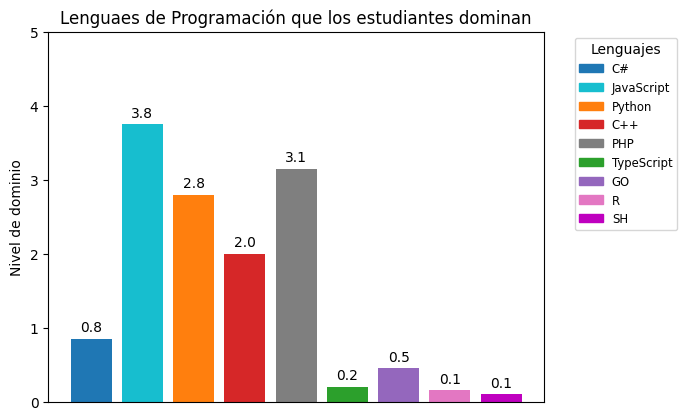
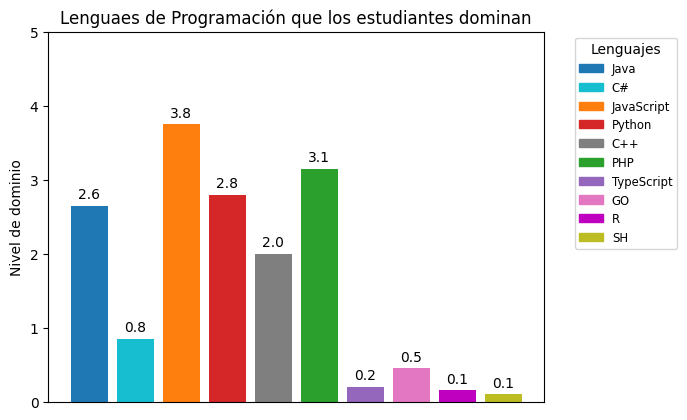
java

Changed region(s): [[0.0917, 0.2476, 0.7642, 0.9595], [0.8253, 0.1548, 0.9782, 0.5881]]

diff --git a/make_bar.py b/make_bar.py
@@ -15,7 +15,7 @@ def make_bar(data, por, title, name, file_name, drop_df=False, range=False, ylab
         df = df.drop(labels=0, axis=0)
 
     fig, ax = plt.subplots()
-    pps = ax.bar('Label', 'Value', data=df, color=['tab:blue', 'tab:cyan', 'tab:orange', 'tab:red', 'tab:gray', 'tab:green', 'tab:purple', 'tab:pink', 'm', 'tab:olive','tab:brown', 'mediumseagreen','k'])
+    pps = ax.bar('Label', 'Value', data=df, color=['tab:blue', 'tab:cyan', 'tab:orange', 'tab:red', 'tab:gray', 'tab:green', 'tab:purple', 'tab:pink', 'm', 'tab:olive','tab:brown', 'mediumseagreen','k','#c6fc03'])
 
     if ylabel is not None:
         plt.ylabel(ylabel)
@@ -35,7 +35,7 @@ def make_bar(data, por, title, name, file_name, drop_df=False, range=False, ylab
     fontP = FontProperties()
     fontP.set_size('small')
 
-    cmap = dict(zip(df['Label'].tolist(), ['tab:blue', 'tab:cyan', 'tab:orange', 'tab:red', 'tab:gray', 'tab:green', 'tab:purple', 'tab:pink', 'm', 'tab:olive','tab:brown', 'mediumseagreen','k']))
+    cmap = dict(zip(df['Label'].tolist(), ['tab:blue', 'tab:cyan', 'tab:orange', 'tab:red', 'tab:gray', 'tab:green', 'tab:purple', 'tab:pink', 'm', 'tab:olive','tab:brown', 'mediumseagreen','k','#c6fc03']))
 
     patches = [Patch(color=v, label=k) for k, v in cmap.items()]
 

diff --git a/make_graphics.py b/make_graphics.py
@@ -774,7 +774,6 @@ make_bar(
         title="Lenguaes de Programación que los estudiantes dominan",
         name="Lenguajes",
         file_name="./fig/lenguajes_domi.png",
-        drop_df=True,
         range=True,
         ylabel="Nivel de dominio"
         )
